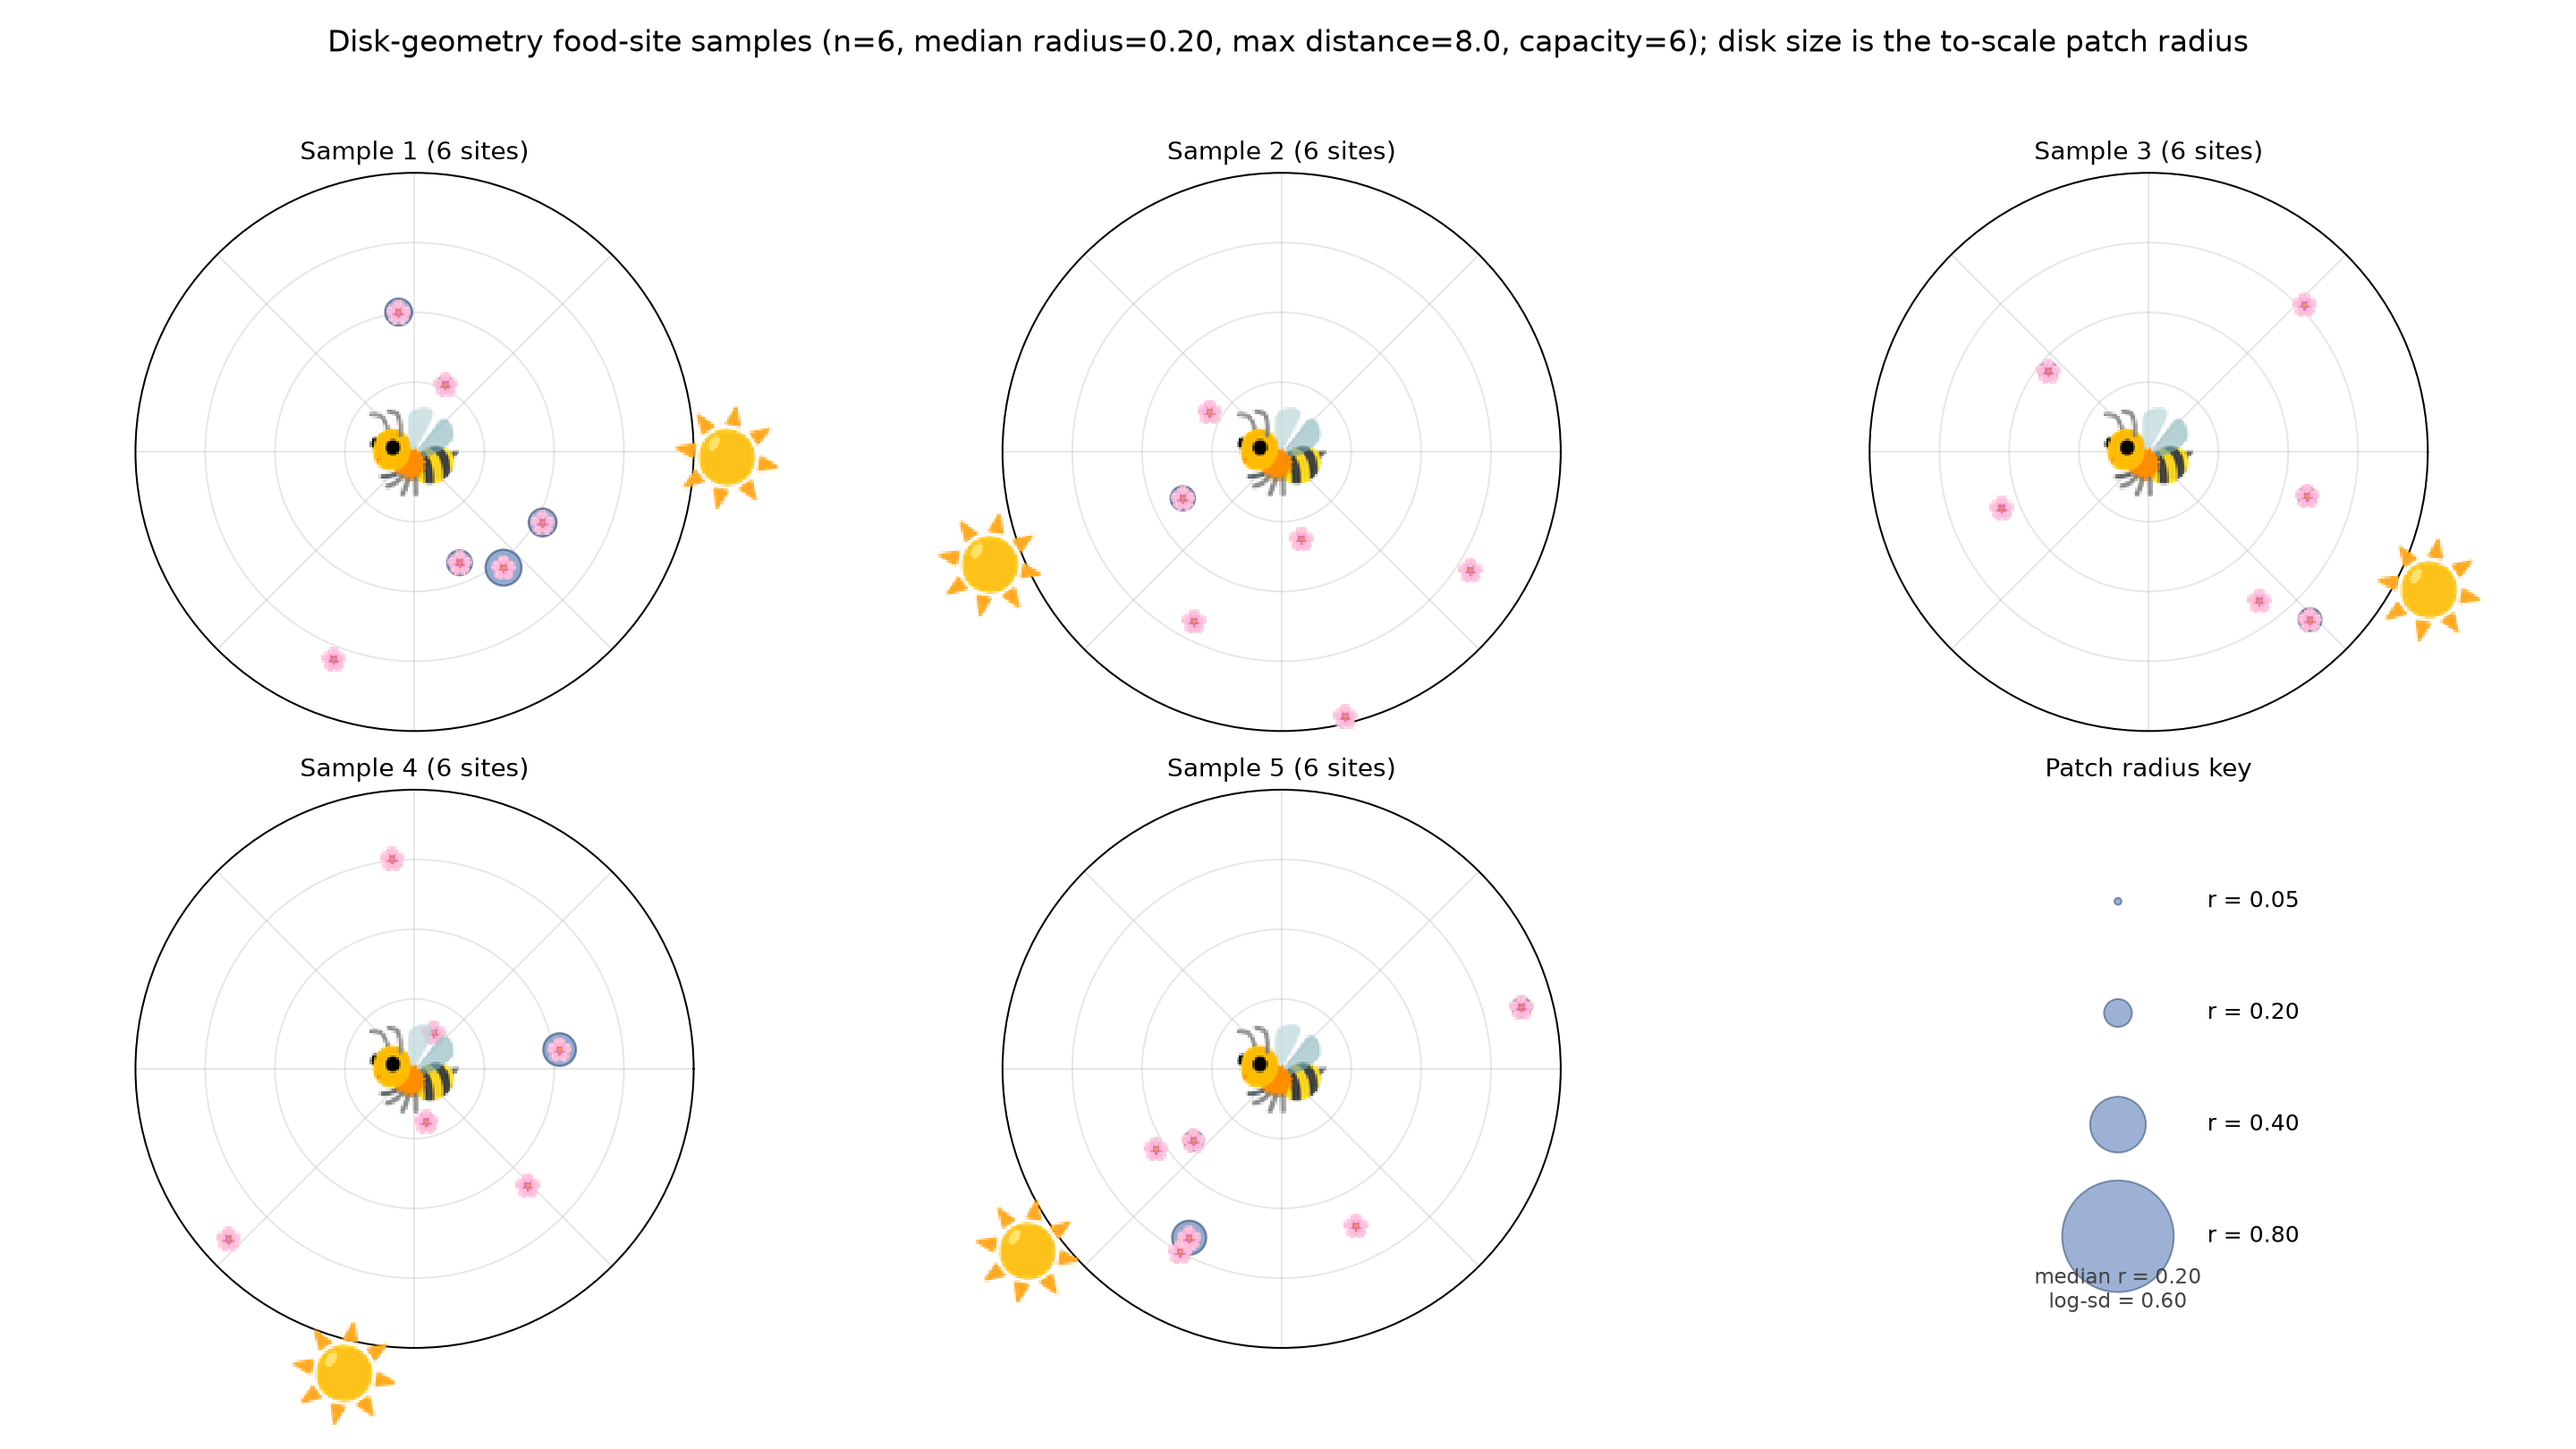
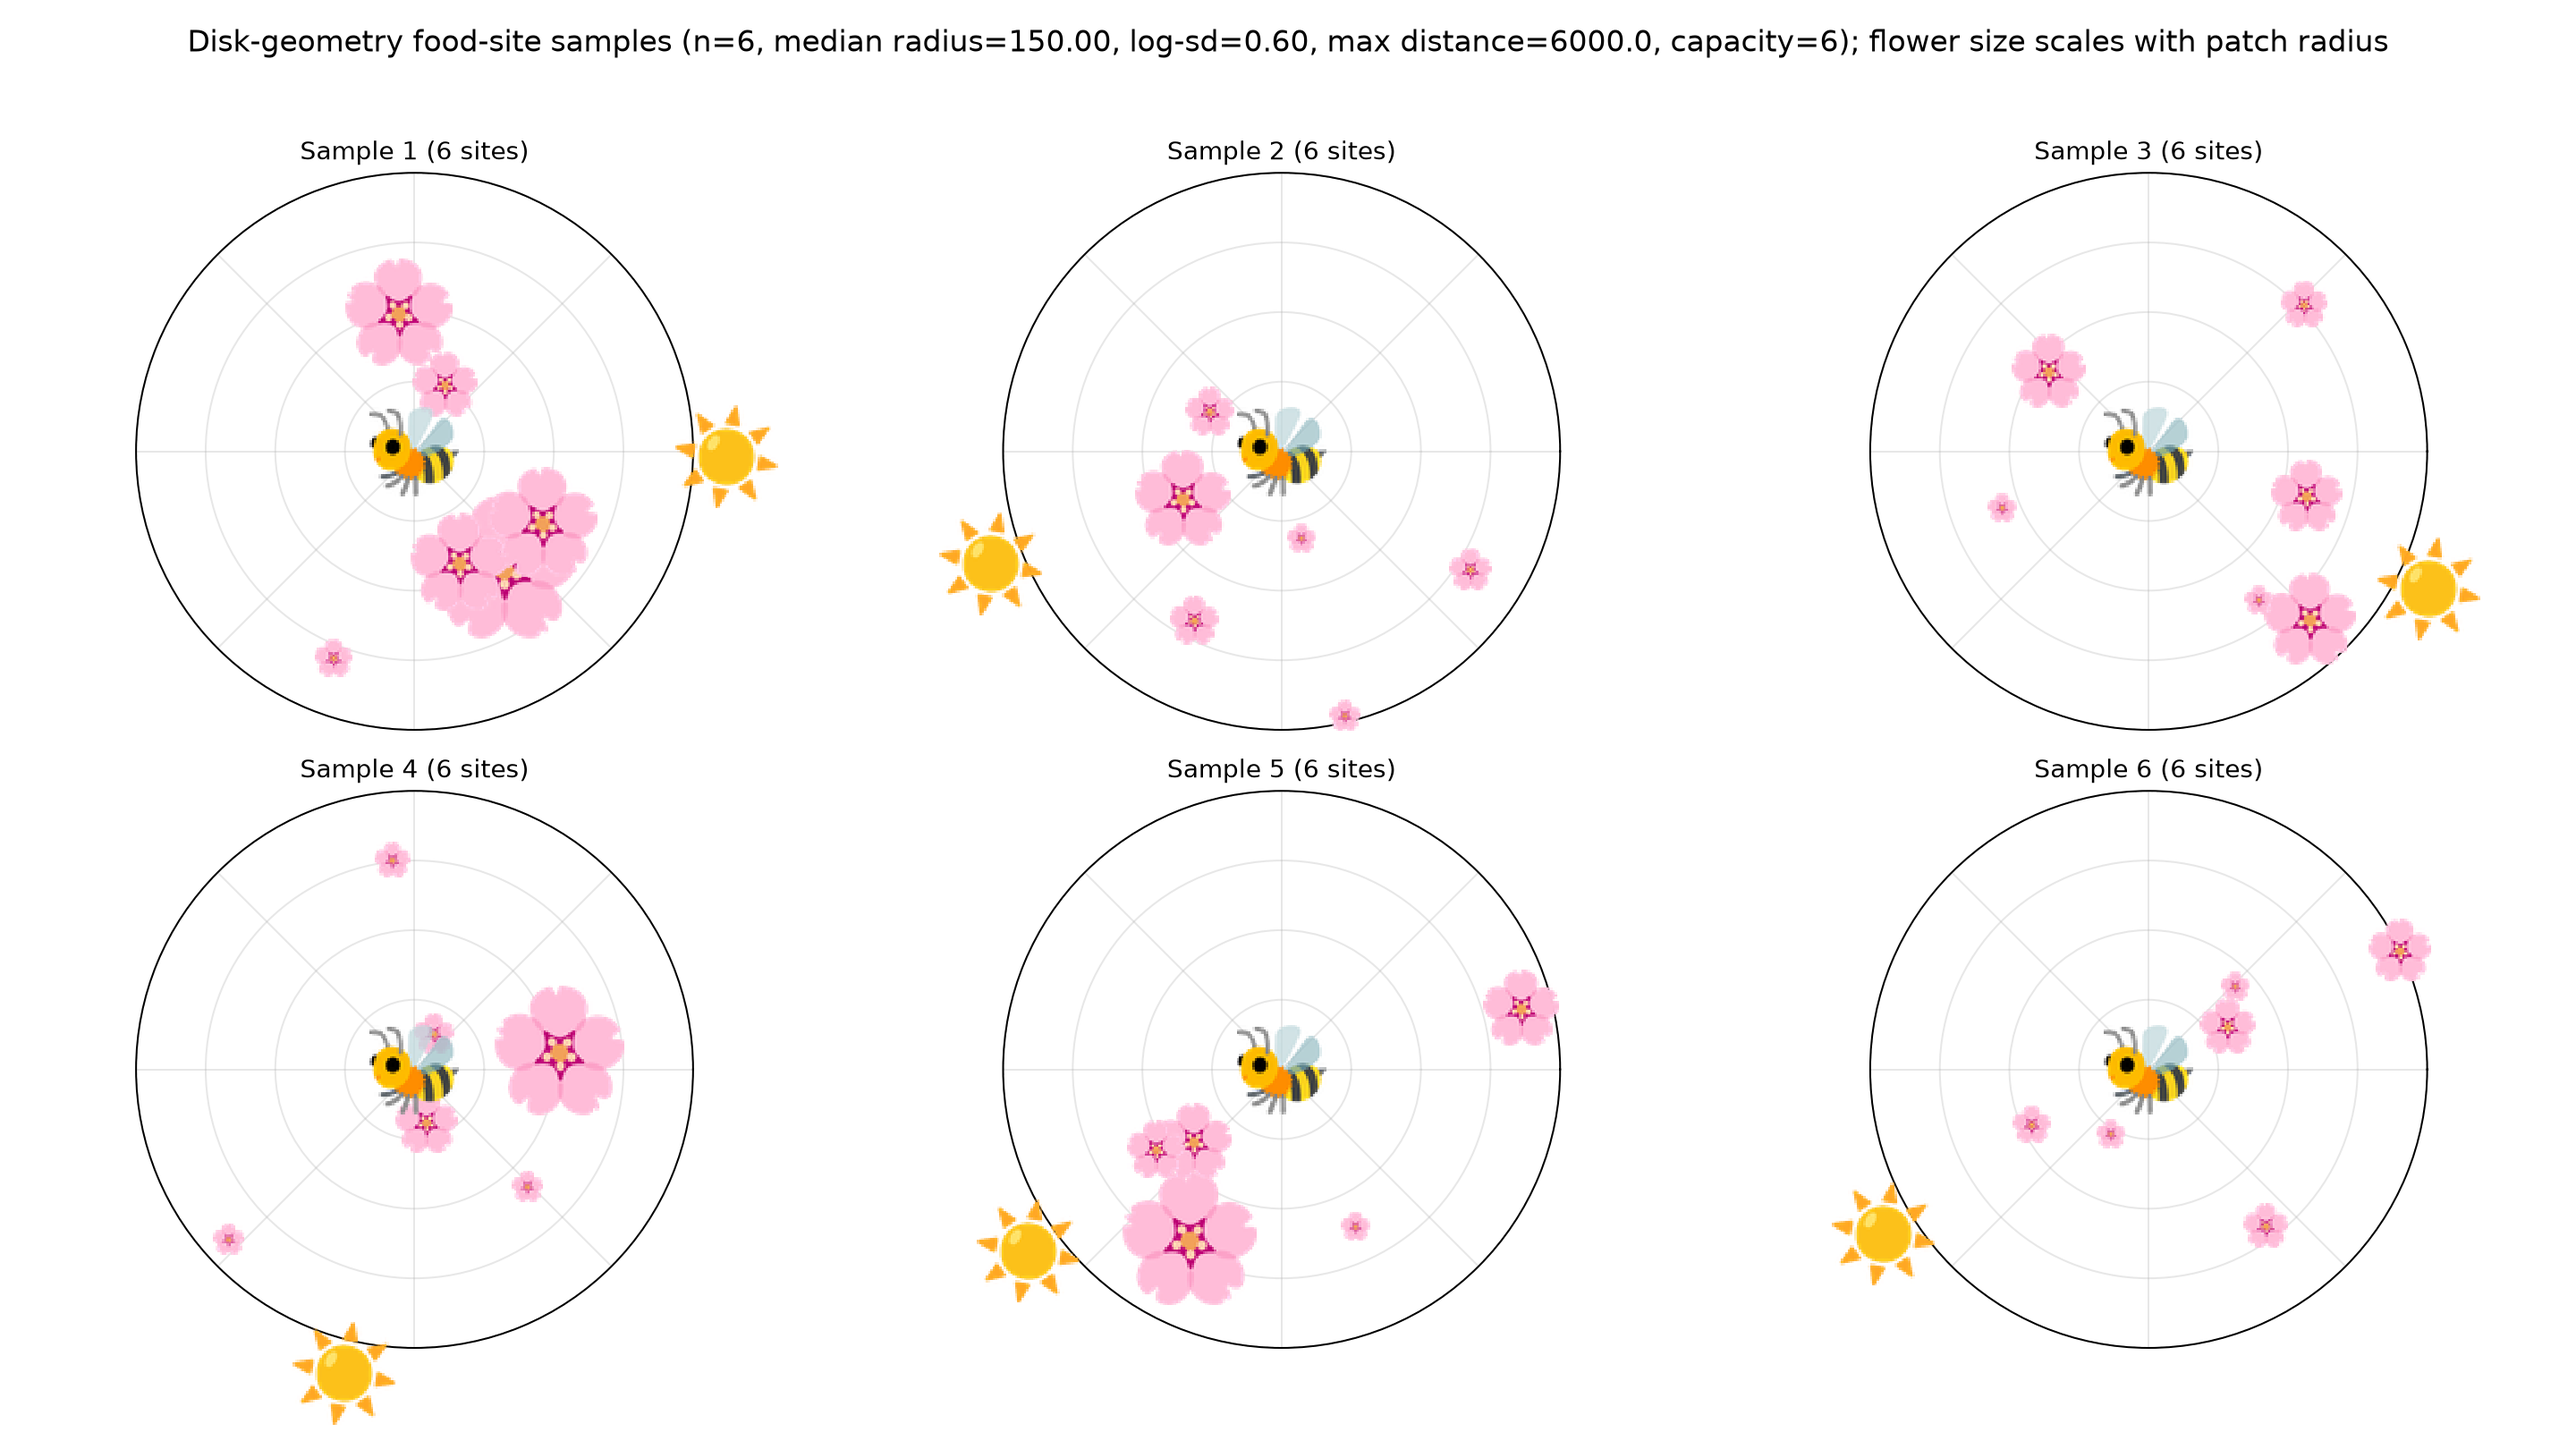
Scale flower marker by patch radius; drop disks and size key
Represent each food site with a single flower whose pixel size scales with
the sampled patch radius (as a fraction of the plot's outer distance, so the
mapping is unit-independent). Removes the to-scale disks and the radius key.

diff --git a/experiments/visualize_disk_food_samples.py b/experiments/visualize_disk_food_samples.py
@@ -36,16 +36,29 @@ from bees.model import DirectionSettings, generate_food_sites, sample_sun_azimut
 DEFAULT_CONFIG = ROOT / "configs" / "food_distribution_disk.json"
 DEFAULT_OUTPUT = ROOT / "report" / "figures" / "disk_food_samples.png"
 
-DISK_FACE = "#4C72B0"
-DISK_EDGE = "#2F4A75"
+# Flower marker size (pixels) as a function of patch radius. The radius is
+# expressed as a fraction of the plot's outer distance so the mapping is
+# independent of the config's distance units; the pixel size scales linearly
+# with that fraction, clamped to stay legible for tiny patches and bounded for
+# the rare very large ones.
+FLOWER_PX_PER_FRACTION = 1000.0
+FLOWER_MIN_PX = 13
+FLOWER_MAX_PX = 90
+
+
+def flower_size(radius: float, max_distance: float) -> int:
+    fraction = radius / max_distance if max_distance > 0 else 0.0
+    return int(
+        min(FLOWER_MAX_PX, max(FLOWER_MIN_PX, fraction * FLOWER_PX_PER_FRACTION))
+    )
 
 
 def parse_args() -> argparse.Namespace:
     parser = argparse.ArgumentParser(
         description=(
             "Sample and visualize several food-site distributions under the "
-            "ecological disk geometry, drawing each patch as a spatially "
-            "to-scale disk so the marker size shows the sampled patch radius."
+            "ecological disk geometry, scaling each flower marker by the "
+            "sampled patch radius."
         )
     )
     parser.add_argument(
@@ -66,7 +79,7 @@ def parse_args() -> argparse.Namespace:
     parser.add_argument(
         "--samples",
         type=int,
-        default=5,
+        default=6,
         help="Number of sampled food distributions to visualize.",
     )
     parser.add_argument(
@@ -133,31 +146,6 @@ def add_image_marker(ax, theta: float, radius: float, text: str, size: int, zord
     ax.add_artist(annotation)
 
 
-def draw_disk(ax, center_distance: float, center_bearing: float, radius: float) -> None:
-    """Draw a patch as a spatially to-scale filled disk on the polar axis.
-
-    The disk boundary is a true circle in Cartesian space centered at the polar
-    point ``(center_distance, center_bearing)``; we sample it and convert back
-    to polar coordinates so the drawn extent equals the sampled patch radius.
-    """
-    x0 = center_distance * math.cos(center_bearing)
-    y0 = center_distance * math.sin(center_bearing)
-    t = np.linspace(0.0, 2 * math.pi, 120)
-    xs = x0 + radius * np.cos(t)
-    ys = y0 + radius * np.sin(t)
-    thetas = np.arctan2(ys, xs)
-    radii = np.hypot(xs, ys)
-    ax.fill(
-        thetas,
-        radii,
-        facecolor=DISK_FACE,
-        edgecolor=DISK_EDGE,
-        linewidth=1.0,
-        alpha=0.6,
-        zorder=3,
-    )
-
-
 def style_polar_axis(ax, max_radius: float) -> None:
     ax.set_theta_zero_location("E")
     ax.set_theta_direction(-1)
@@ -182,13 +170,18 @@ def draw_sample(ax, sites, settings, sun_azimuth: float) -> None:
     # reference for the gravity-based code and is drawn fresh each episode.
     add_image_marker(ax, sun_azimuth, max_radius * 1.12, "☀", 46, zorder=6)
 
-    # Each patch is drawn as a to-scale disk (size == sampled radius); a small
-    # fixed flower marks the center so the site reads as food. Unlike the legacy
-    # angular model, the patch radius here is a physical spatial extent, so the
-    # disk -- not the flower -- carries the radius information.
+    # Each patch is a flower whose size scales with the sampled radius. Unlike
+    # the legacy angular model, the patch radius here is a physical spatial
+    # extent, so a bigger flower marks a physically larger patch.
     for site in sites:
-        draw_disk(ax, site.distance, site.direction, site.radius)
-        add_image_marker(ax, site.direction, site.distance, "🌸", 11, zorder=4)
+        add_image_marker(
+            ax,
+            site.direction,
+            site.distance,
+            "🌸",
+            flower_size(site.radius, settings.food_site_max_distance),
+            zorder=4,
+        )
 
     # faint dashed ring marking the maximum food distance (outer boundary)
     ax.plot(
@@ -202,57 +195,12 @@ def draw_sample(ax, sites, settings, sun_azimuth: float) -> None:
     )
 
 
-def draw_size_key(ax, settings: DirectionSettings) -> None:
-    """A plain-axis legend translating disk size into patch radius, drawn to the
-    same data scale as the sample panels so the disks are directly comparable."""
-    max_radius = settings.food_site_max_distance
-    ax.set_aspect("equal")
-    ax.set_xlim(-0.05 * max_radius, max_radius)
-    ax.set_ylim(0, max_radius)
-    ax.axis("off")
-    ax.set_title("Patch radius key", fontsize=11)
-
-    key_radii = [0.05, 0.20, 0.40, 0.80]
-    x_center = max_radius * 0.42
-    spacing = max_radius / (len(key_radii) + 1)
-    for index, radius in enumerate(key_radii):
-        y = max_radius - (index + 1) * spacing
-        circle = plt.Circle(
-            (x_center, y),
-            radius,
-            facecolor=DISK_FACE,
-            edgecolor=DISK_EDGE,
-            linewidth=0.8,
-            alpha=0.55,
-        )
-        ax.add_patch(circle)
-        ax.text(
-            x_center + max_radius * 0.16,
-            y,
-            f"r = {radius:.2f}",
-            va="center",
-            ha="left",
-            fontsize=10,
-        )
-
-    ax.text(
-        x_center,
-        max_radius * 0.06,
-        f"median r = {settings.food_site_radius:.2f}\n"
-        f"log-sd = {settings.food_site_radius_log_sd:.2f}",
-        va="bottom",
-        ha="center",
-        fontsize=9,
-        color="#444444",
-    )
-
-
 def main() -> None:
     args = parse_args()
     settings = load_settings(args.config, args.food_site_count)
     args.output.parent.mkdir(parents=True, exist_ok=True)
 
-    columns = math.ceil((args.samples + 1) / 2)
+    columns = math.ceil(args.samples / 2)
     fig = plt.figure(figsize=(16, 9))
 
     for sample_index in range(args.samples):
@@ -263,19 +211,17 @@ def main() -> None:
         draw_sample(ax, sites, settings, sun_azimuth)
         ax.set_title(f"Sample {sample_index + 1} ({len(sites)} sites)")
 
-    key_ax = fig.add_subplot(2, columns, args.samples + 1)
-    draw_size_key(key_ax, settings)
-
-    for cell in range(args.samples + 2, 2 * columns + 1):
+    for cell in range(args.samples + 1, 2 * columns + 1):
         blank = fig.add_subplot(2, columns, cell)
         blank.axis("off")
 
     fig.suptitle(
         "Disk-geometry food-site samples "
         f"(n={settings.food_site_count}, median radius="
-        f"{settings.food_site_radius:.2f}, max distance="
+        f"{settings.food_site_radius:.2f}, log-sd="
+        f"{settings.food_site_radius_log_sd:.2f}, max distance="
         f"{settings.food_site_max_distance:.1f}, capacity="
-        f"{settings.food_site_capacity}); disk size is the to-scale patch radius"
+        f"{settings.food_site_capacity}); flower size scales with patch radius"
     )
     plt.tight_layout(rect=(0, 0, 1, 0.96))
     fig.savefig(args.output, dpi=180)
